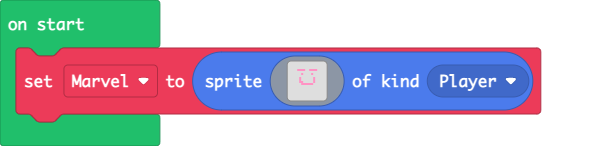
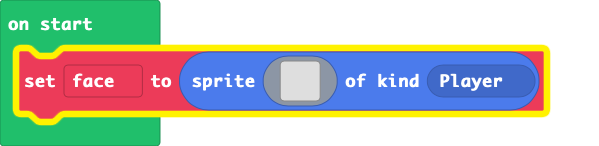
Update main.blocks, main.ts

diff --git a/main.ts b/main.ts
@@ -1,16 +1,16 @@
-let Marvel = sprites.create(img`
+let face = sprites.create(img`
     . . . . . . . . . . . . . . . . 
+    . . . . . . 4 . . 4 . . . . . . 
+    . . . 4 4 4 4 . . 4 4 4 4 . . . 
+    . . . . . 4 . . . . 4 . . . . . 
+    . . . . 4 4 . 4 4 . 4 4 . . . . 
     . . . . . . . . . . . . . . . . 
-    . . . 3 3 3 3 . . 3 3 3 3 . . . 
-    . . . . . . . . . . . . . . . . 
-    . . . . . 3 . . . . 3 . . . . . 
-    . . . . . . . . . . . . . . . . 
-    . . . . 3 . . . . . . 3 . . . . 
-    . . . . 3 . . . . . . 3 . . . . 
-    . . . . 3 3 . . . . . 3 . . . . 
-    . . . . . 3 3 3 3 3 3 . . . . . 
-    . . . . . . . . . . . . . . . . 
-    . . . . . . . . . . . . . . . . 
+    . . . . 4 4 4 4 4 4 4 4 . . . . 
+    . . . . 4 4 4 4 4 4 4 4 . . . . 
+    . . . . 4 4 4 4 4 4 4 4 . . . . 
+    . . . . . 4 4 4 4 4 4 . . . . . 
+    . . . . . 4 4 4 4 4 4 . . . . . 
+    . . . . . . . 4 4 . . . . . . . 
     . . . . . . . . . . . . . . . . 
     . . . . . . . . . . . . . . . . 
     . . . . . . . . . . . . . . . . 
